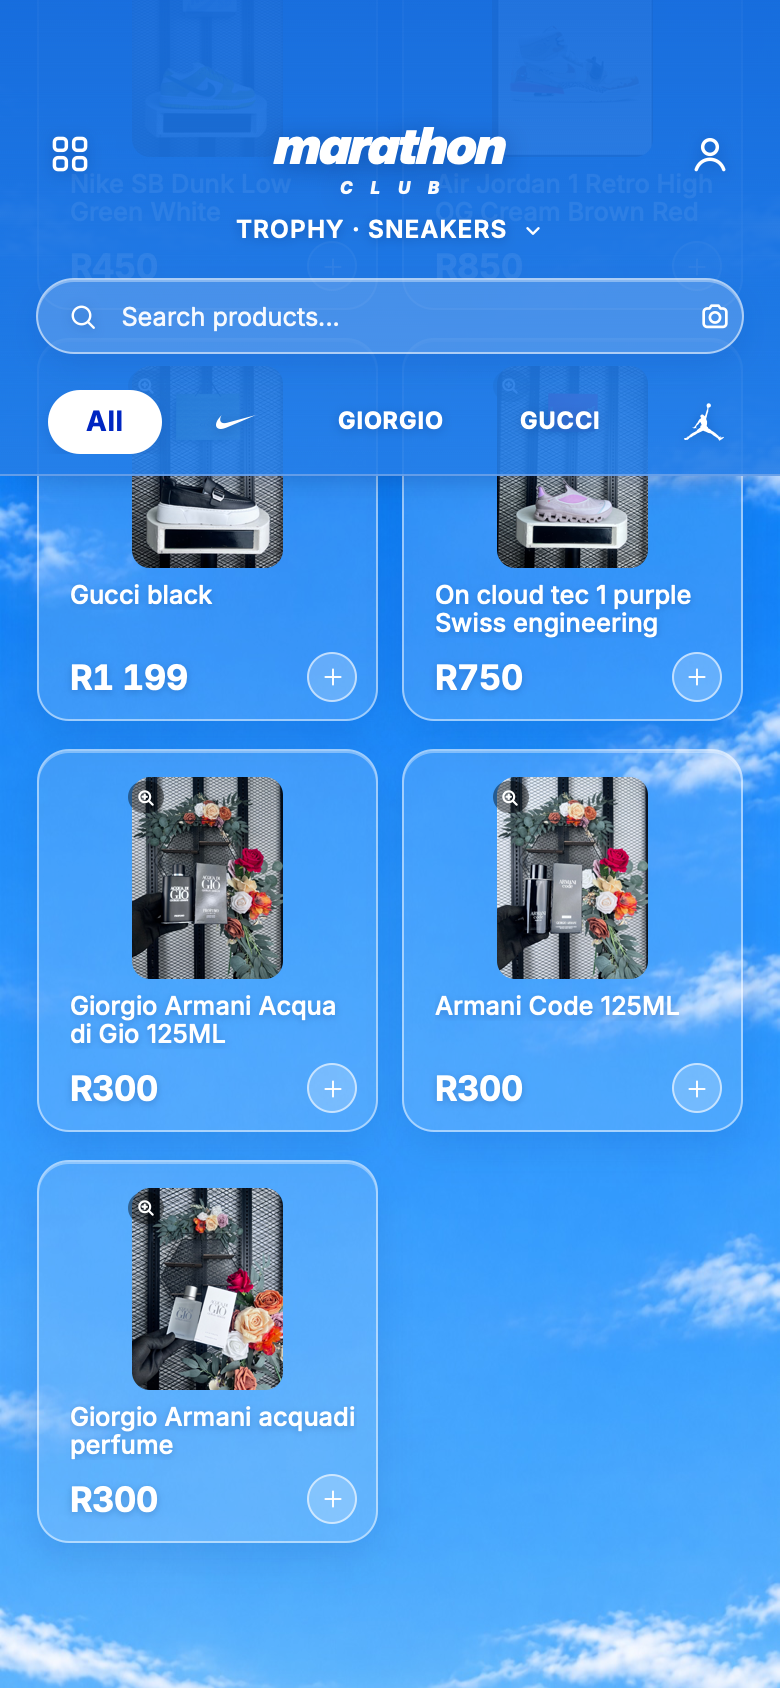
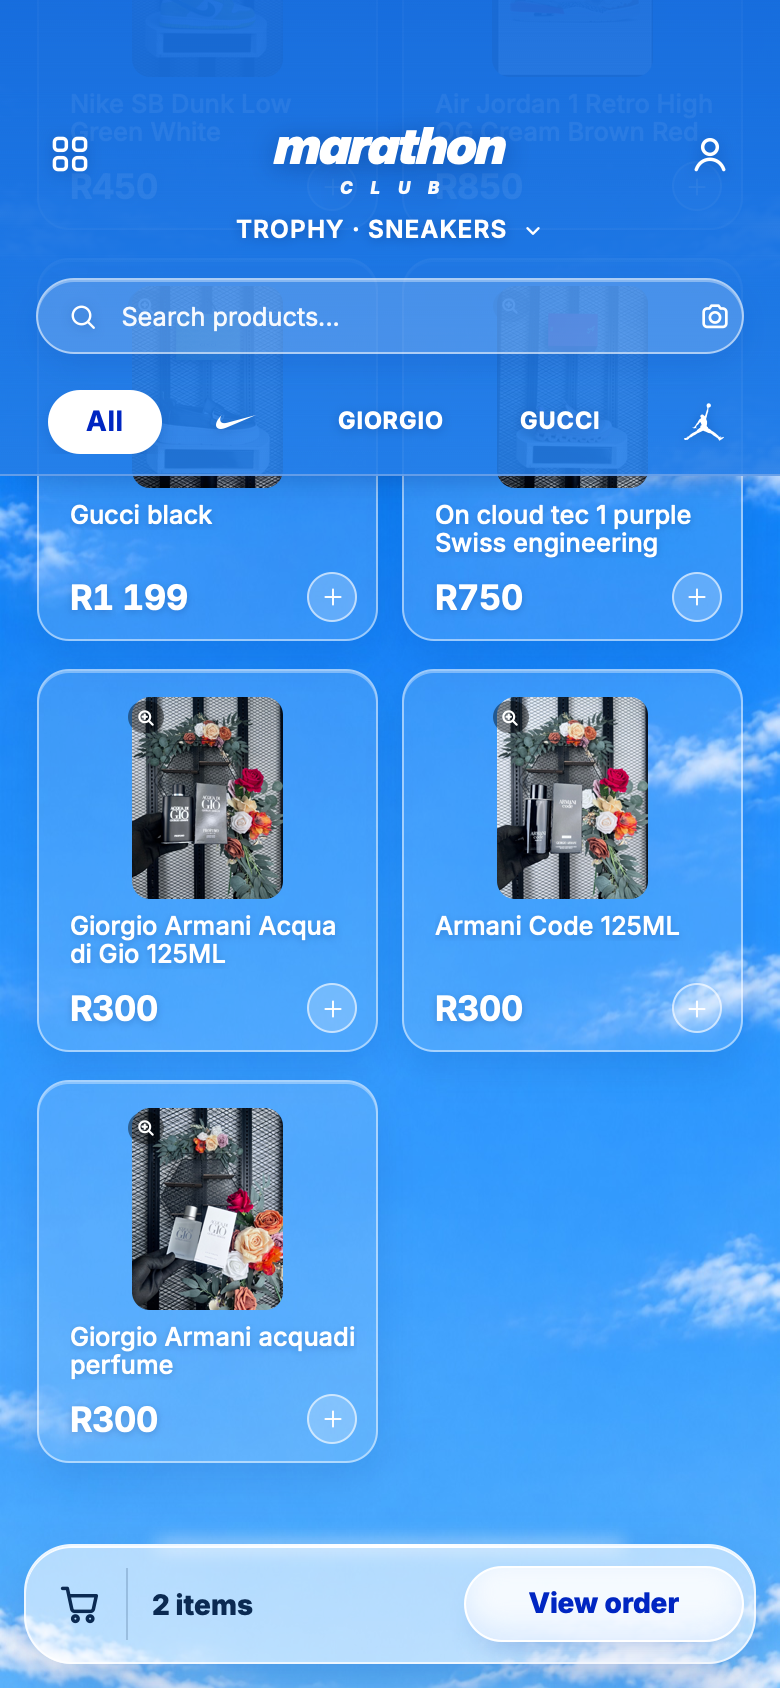
Phone Store Assistant: top band FIXED like the laptop (sticky was cancelled by AssistantView's overflow-x:hidden wrapper, so it scrolled away on real phones); measured spacer; harness now mounts the real wrapper so the tests catch it

Changed region(s): [[0.0308, 0.2773, 0.9846, 1.0], [0.0923, 0.2773, 0.1231, 0.3081]]

diff --git a/src/components/sky/AssistantPhone.jsx b/src/components/sky/AssistantPhone.jsx
@@ -12,7 +12,7 @@
 // the existing label finder, a store pick asks the existing red switch-confirm,
 // the bar opens the existing checkout. Nothing here reads or writes data.
 
-import { useEffect, useState } from "react";
+import { useEffect, useLayoutEffect, useRef, useState } from "react";
 import { SkyHeader, SkySearch, SkyBrandStrip, SkyStorePill, ProductStage, SkyPlus, SkyBottomBar } from "./Sky.jsx";
 import { fmtR } from "../assistant/assistantOrderModel.js";
 
@@ -31,6 +31,23 @@ export default function AssistantPhone({
   // start (no reflow when it "sticks"); its glass fades in once the page has
   // moved, so at rest it is the frozen picture.
   const [stuck, setStuck] = useState(false);
+  // FIXED, like the laptop (Junid, 6 Nov: "the mobile app should act like the
+  // laptop version"). Sticky was silently cancelled by AssistantView's
+  // overflow-x:hidden wrapper, so the band scrolled away on a real phone. Now
+  // the band is position:fixed and a spacer of its measured height holds its
+  // place, so the first card row starts fully below it and nothing jumps.
+  const topRef = useRef(null);
+  const [topH, setTopH] = useState(0);
+  useLayoutEffect(() => {
+    const el = topRef.current;
+    if (!el) return undefined;
+    const set = () => setTopH(Math.round(el.getBoundingClientRect().height));
+    set();
+    if (typeof ResizeObserver === "undefined") return undefined;
+    const ro = new ResizeObserver(set);
+    ro.observe(el);
+    return () => ro.disconnect();
+  }, []);
   useEffect(() => {
     const on = () => setStuck(window.scrollY > 2);
     on();
@@ -40,7 +57,7 @@ export default function AssistantPhone({
   return (
     <div className="ap-root" data-testid="assistant-phone">
       <style>{AP_CSS}</style>
-      <div className="ap-top" data-testid="ap-top" data-stuck={stuck ? "true" : undefined}>
+      <div className="ap-top" ref={topRef} data-testid="ap-top" data-stuck={stuck ? "true" : undefined}>
         <div className="ap-topglass" aria-hidden="true" />
       {/* The store pill replaces the old ASSISTANT tag and the store row.
           Only the shops this account is assigned to; with one (auto-selected)
@@ -69,6 +86,7 @@ export default function AssistantPhone({
         <div data-contrast-exempt=""><SkyBrandStrip className="ap-brands" brands={brands} value={brand} onChange={onBrand} /></div>
       ) : null}
       </div>
+      <div className="ap-topspace" aria-hidden="true" style={{ height: topH }} />
 
       {children}
 
@@ -129,8 +147,8 @@ export default function AssistantPhone({
 const AP_CSS = `
 .ap-root{max-width:880px;margin:0 auto;color:#fff;font-family:var(--sky-font);position:relative;padding-left:var(--sky-sal);padding-right:var(--sky-sar)}
 /* Sticky top band (Junid 6 Nov): stays put, the grid passes under it; its glass fades in once scrolled. */
-.ap-top{position:sticky;top:0;z-index:40;padding-bottom:11px}
-.ap-topglass{position:absolute;inset:0 calc(-1 * var(--sky-sar)) 0 calc(-1 * var(--sky-sal));z-index:0;pointer-events:none;opacity:0;transition:opacity .18s ease-out;
+.ap-top{position:fixed;top:0;left:0;right:0;z-index:40;max-width:880px;margin:0 auto;padding-bottom:11px;padding-left:var(--sky-sal);padding-right:var(--sky-sar)}
+.ap-topglass{position:absolute;inset:0;z-index:0;pointer-events:none;opacity:0;transition:opacity .18s ease-out;
   background:linear-gradient(180deg,rgba(24,110,222,.95),rgba(36,126,232,.9));-webkit-backdrop-filter:blur(20px) saturate(1.4);backdrop-filter:blur(20px) saturate(1.4);
   border-bottom:1px solid rgba(255,255,255,.32);box-shadow:0 10px 24px -16px rgba(0,30,90,.55)}
 .ap-top[data-stuck="true"] .ap-topglass{opacity:1}

diff --git a/src/dev/skyHarness.jsx b/src/dev/skyHarness.jsx
@@ -338,7 +338,10 @@ function Barcodes({ products, BcsCard, css, Studio, shell }) {
     const { default: WarehouseTop, WAREHOUSE_SKY_CSS } = await import("../components/sky/WarehouseTop.jsx");
     el = <div>{shell("WAREHOUSE")}<Warehouse products={products} Top={WarehouseTop} css={WAREHOUSE_SKY_CSS} /></div>;
   } else if (screen === "phone") {
-    el = <Phone products={products.slice(0, Number(q.get("n") || 16))} />;
+    // Inside AssistantView's own wrapper (overflow-x:hidden — it cancels a
+    // sticky band, which is how the band scrolled away on a real phone).
+    el = <div style={{ minHeight: "100vh", color: "#fff", fontFamily: "var(--sky-font)", maxWidth: 880, margin: "0 auto", overflowX: "hidden", paddingBottom: 40 }}>
+      <Phone products={products.slice(0, Number(q.get("n") || 16))} /></div>;
   } else {
     const { RoleIcons } = q.get("mock") ? await import("../App.jsx") : {};
     el = <Home icons={RoleIcons || null} />;
